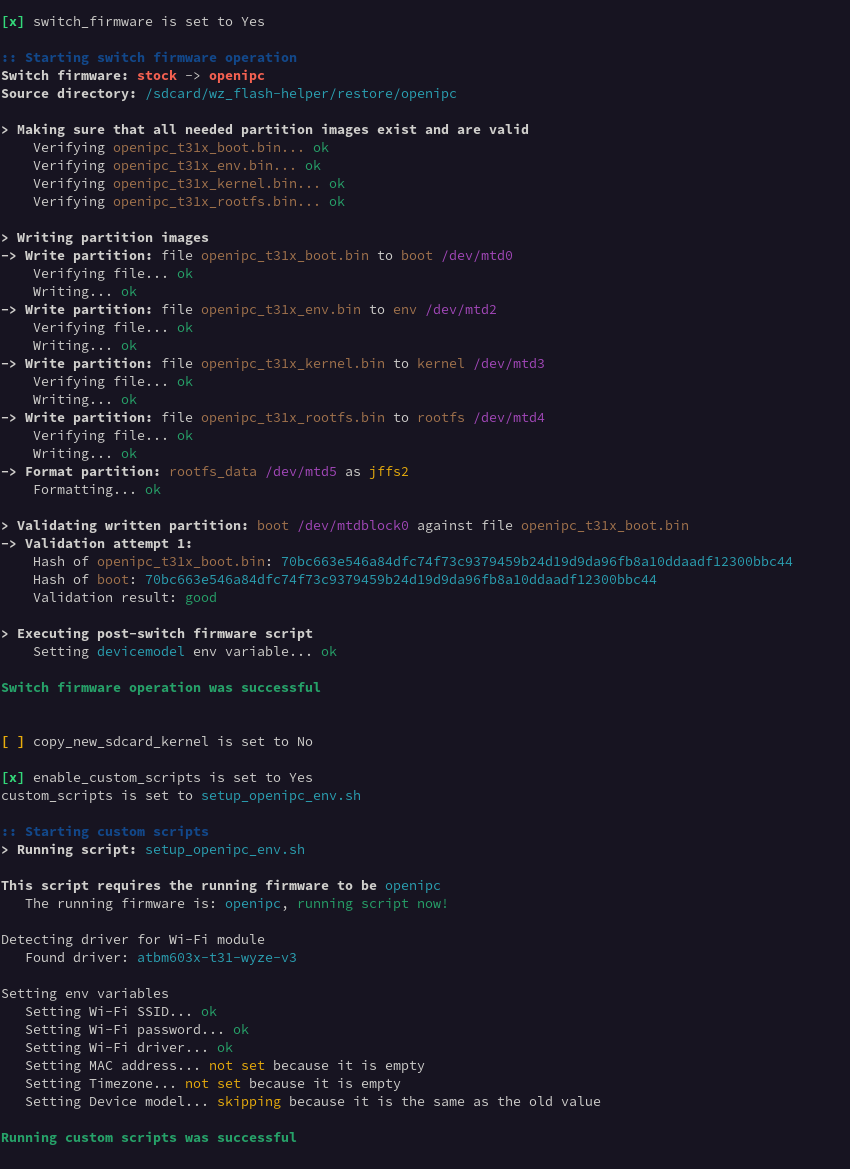
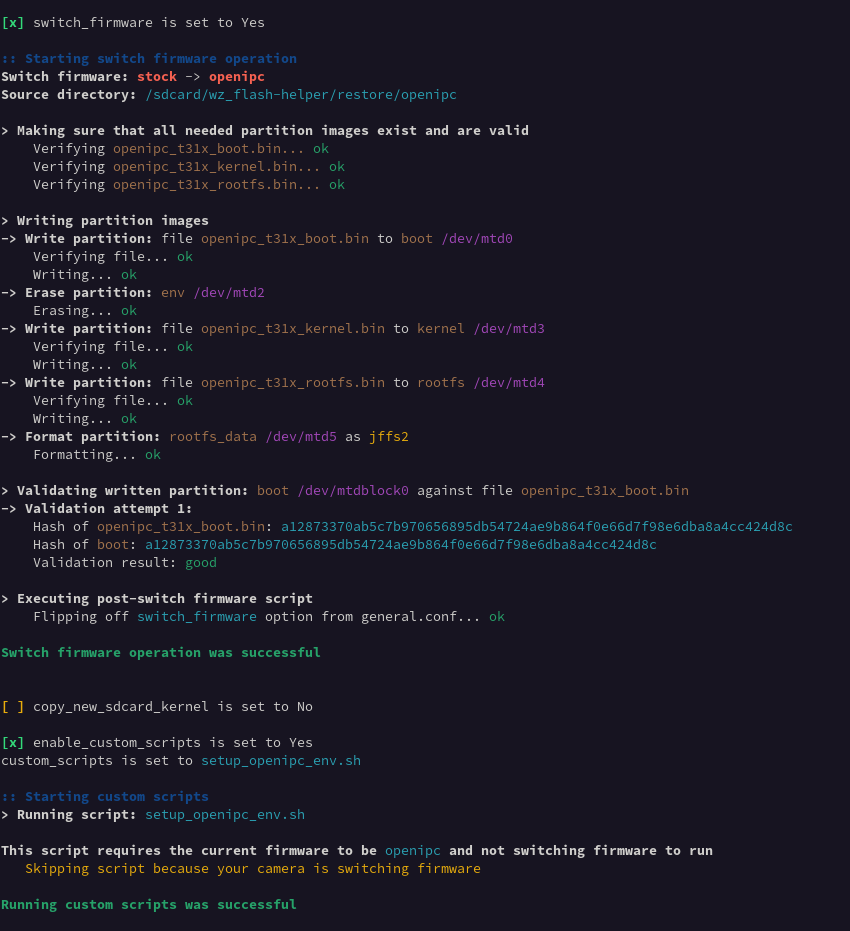
Changes to adapt with the new OpeIPC U-boot

Changed region(s): [[0.0, 0.0, 0.9176, 0.9968], [0.5812, 0.0934, 0.6118, 0.1557], [0.8871, 0.5607, 0.9176, 0.5918]]

diff --git a/docs/README_switch_firmware_openipc.md b/docs/README_switch_firmware_openipc.md
@@ -17,7 +17,7 @@ Switch to OpenIPC firmware
 
 ## Overview
 
-The OpenIPC firmware requires four partition images for: `boot`, `env`, `kernel` and `rootfs`.
+The OpenIPC firmware requires three partition images for: `boot`, `kernel` and `rootfs`.
 
 ## Guide
 
@@ -38,7 +38,6 @@ Download OpenIPC tarball that contains kernel and rootfs images from [OpenIPC Re
 Then extract the firmware archive, place everything under the `wz_flash-helper/restore/openipc/` directory on your SD card, and rename the partition images:
 
 - boot: `u-boot-[SoC]-universal.bin` to `openipc_[SoC]_boot.bin`
-- env: `openipc_[chip family]_env.bin` to `openipc_[SoC]_env.bin`
 - kernel: `uImage.[SoC]` to `openipc_[SoC]_kernel.bin`
 - rootfs: `rootfs.squashfs.[SoC]` to `openipc_[SoC]_rootfs.bin`
 
@@ -71,11 +70,15 @@ copy_new_sdcard_kernel="no"
 
 enable_custom_scripts="yes"
 custom_scripts="setup_openipc_env.sh"
+
+re_run="yes"
+
+manual_model="<camera model code>"
 ```
 
 **Step 7: Power on**
 
-Insert your SD card into your camera and power it on. It would take about 3 minutes to finish writing all partitions, then it will reboot to OpenIPC firmware.
+Insert your SD card into your camera and power it on. It would take about 3 minutes to finish writing all partitions, then it will reboot again to write `env` variables, and once again to OpenIPC firmware.
 
 After your camera finishes booting, you can use an IP scanner (e.g. nmap) to figure out its IP address and connect to it using SSH.
 

diff --git a/docs/Changelog.md b/docs/Changelog.md
@@ -1,5 +1,13 @@
 [Introduction](README.md) | [Setup](README_setup.md) | [Backup](README_backup.md) | [Restore](README_restore.md) | [Switch firmware](README_switch_firmware.md) | [Other options](README_other_options.md) | [Screenshots](README_screenshots.md) | [Build](README_build.md) | [FAQs](README_FAQs.md) | **Changelog** | [Limitation](Limitation.md)
 
+## v0.9.2
+
+> Note: This version configuration file and custom scripts are incompatible with older versions, please do a fresh setup to upgrade.
+
+- Remove `env` images as switching to OpenIPC no longer needs `env` partition image
+- Add `re_run` option to run the program twice
+- Fix a mssage of the `custom_script_matched_firmware_check` script is not displayed correctly
+
 ## v0.9.1
 
 - Allow assigning multiple hardware variables
@@ -61,7 +69,7 @@
 
 ## v0.7.8
 
-- Add manual_current_firmware and manual_model options
+- Add `manual_current_firmware` and `manual_model` options
 - Add command shortcuts `ms` and `us` for mounting and umounting SD card from initramfs shell
 
 ## v0.7.7

diff --git a/docs/README_switch_firmware.md b/docs/README_switch_firmware.md
@@ -29,7 +29,7 @@ With this option, you can decide if all partitions will be written by the Switch
 
 On Stock firmware: Some partitions(such as `aback`, `kback`, `backupa`, `backupd`, etc. on T31 cameras) don't need to be written because they don't contain any meaningful data as they are used by Stock firmware as stage partitions to install updates. You should disable this option to save time.
 
-On OpenIPC firmware: If you want to have a fresh OpenIPC installation, leave it disabled. If you want to write `rootfs_data` partitions, you can enable it.
+On OpenIPC firmware: If you want to have a fresh OpenIPC installation, leave it disabled. If you want to write `env` and `rootfs_data` partitions, you can enable it.
 
 This option value has no effect when switching to the wzmini firmware.
 

diff --git a/docs/README_other_options.md b/docs/README_other_options.md
@@ -31,6 +31,10 @@ If you are on OpenIPC firmware, SD card kernel specified with `new_sdcard_kernel
 
 With this option, you can write shell scripts and get them executed by the program after the Backup, Restore and Switch firmware operations are finished. This is useful for extra modifications to your partitions from the initramfs environment.
 
+**✅ Option: `re_run`**
+
+With this option, you can let the program run twice. This is useful to let OpenIPC U-boot set some `env` variables on its first boot as it only sets these variables if the `env` partition is empty.
+
 ## Debug options
 
 **✅ Option: `manual_current_firmware`**
